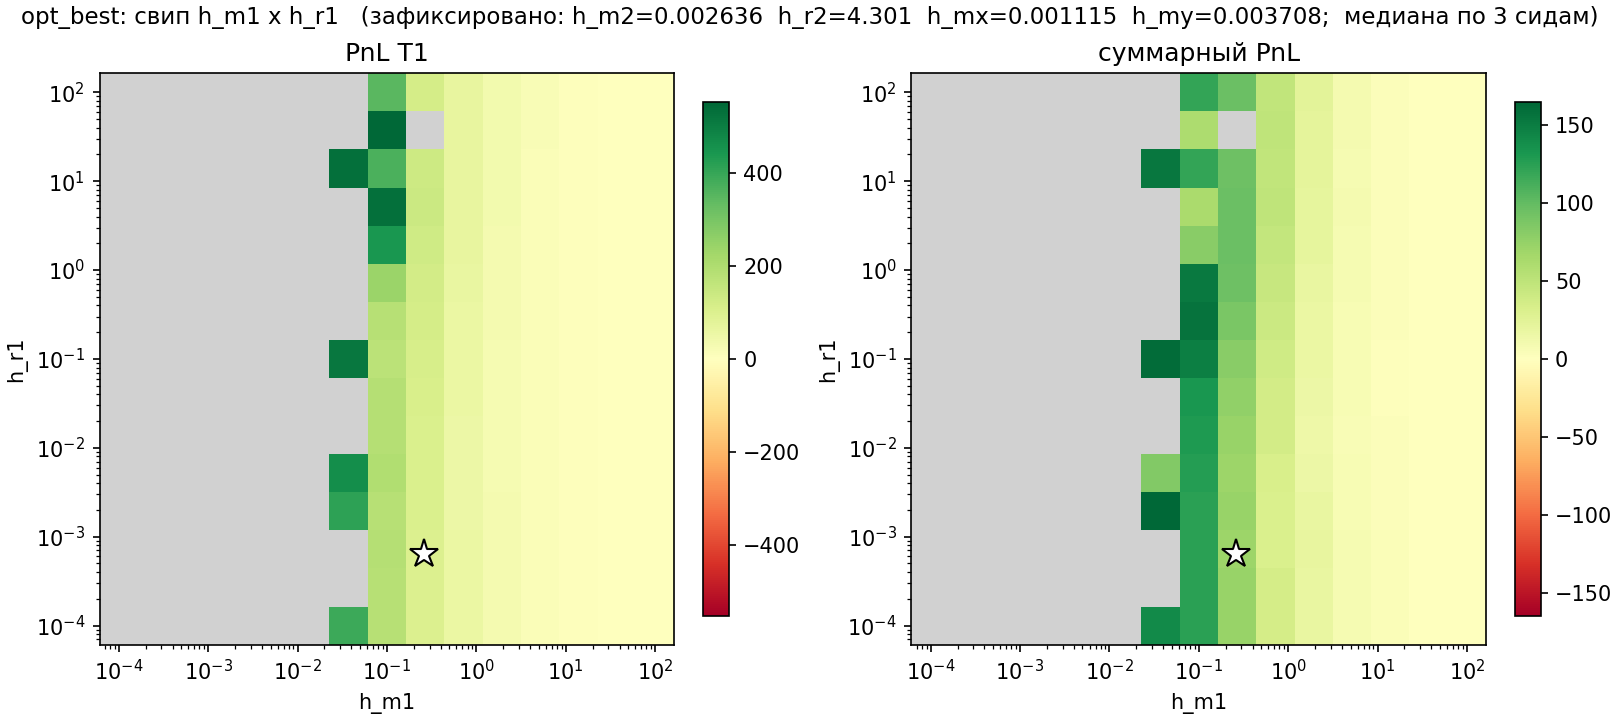
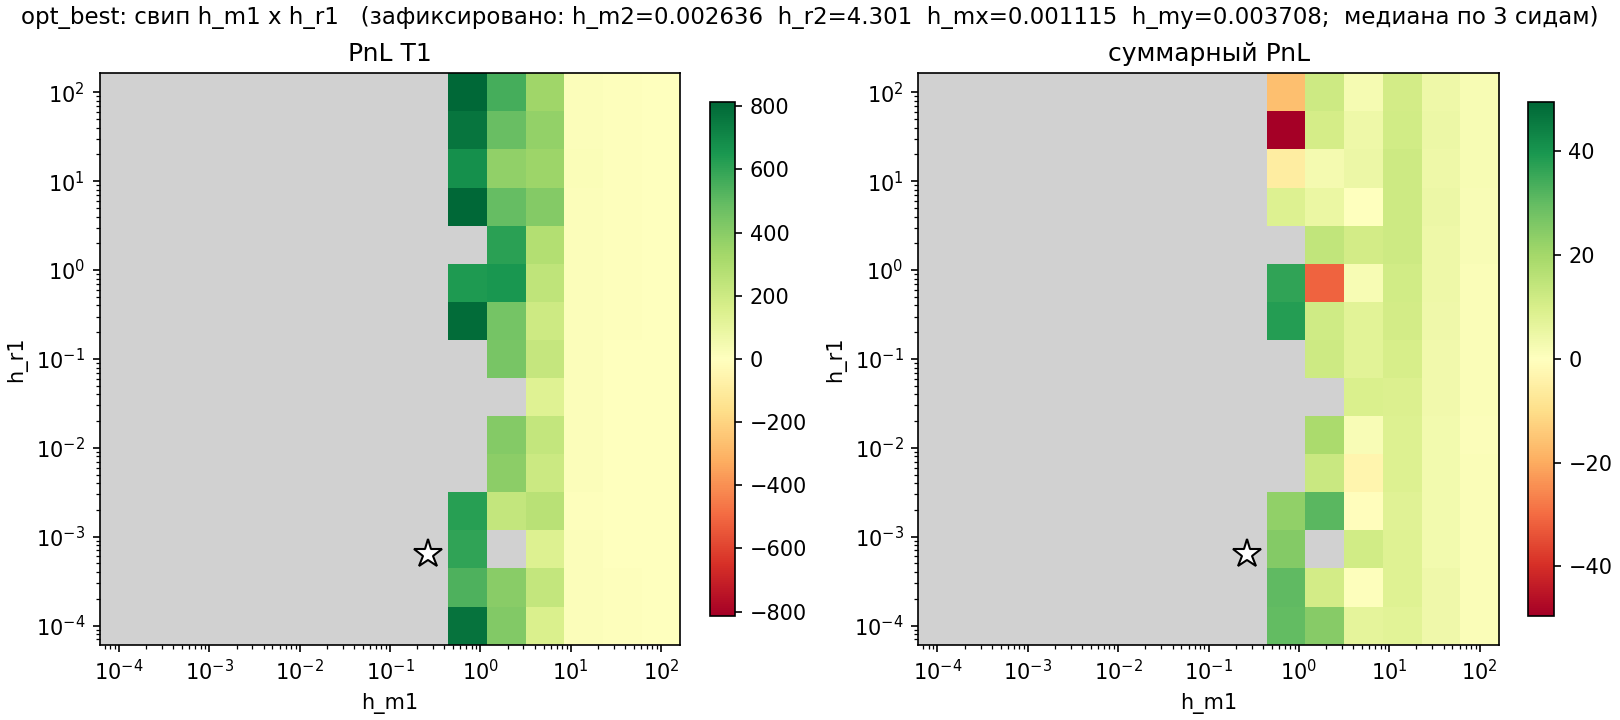
прооптимизировал со стаканам с большой памятью

diff --git a/agent_simulation.py b/agent_simulation.py
@@ -111,11 +111,11 @@ class SimConfig:
     # цен блуждает как sigma_F * sqrt(T) (1e-3 -> ~11% за 12000 тиков)
     fundamental_vol: float = 1e-3
     venue1: ExchangeConfig = field(default_factory=lambda: ExchangeConfig(
-        name="1", arrival_rate=10.0, order_size=1.0, order_ttl=5,
-        price_std=3.0, ewma_half_life=10.0))
+        name="1", arrival_rate=10.0, order_size=1.0, order_ttl=80,
+        price_std=10.0, ewma_half_life=10.0))
     venue2: ExchangeConfig = field(default_factory=lambda: ExchangeConfig(
-        name="2", arrival_rate=3.0, order_size=1.0, order_ttl=5,
-        price_std=3.0, ewma_half_life=10.0))
+        name="2", arrival_rate=3.0, order_size=1.0, order_ttl=80,
+        price_std=10.0, ewma_half_life=10.0))
 
     progress_every: int = 500    # период печати прогресса (0 — молча)
 

diff --git a/param_heatmaps.py b/param_heatmaps.py
@@ -40,8 +40,8 @@ BASE_SETS = {
                      h_mx=1.0, h_my=1.0),
     # лучшая устойчивая точка из opt_log.csv (median=+68.1, mean=+68.4,
     # 0 взрывов из 10 сидов)
-    "opt_best": dict(h_m1=0.263, h_r1=0.000646, h_m2=0.002636, h_r2=4.301,
-                     h_mx=0.001115, h_my=0.003708),
+    "opt_best": dict(h_m1=0.263, h_r1=0.0646, h_m2=0.02636, h_r2=4.301,
+                     h_mx=0.01115, h_my=0.03708),
 }
 
 # какие пары параметров свиповать (обе оси — лог-шкала)
